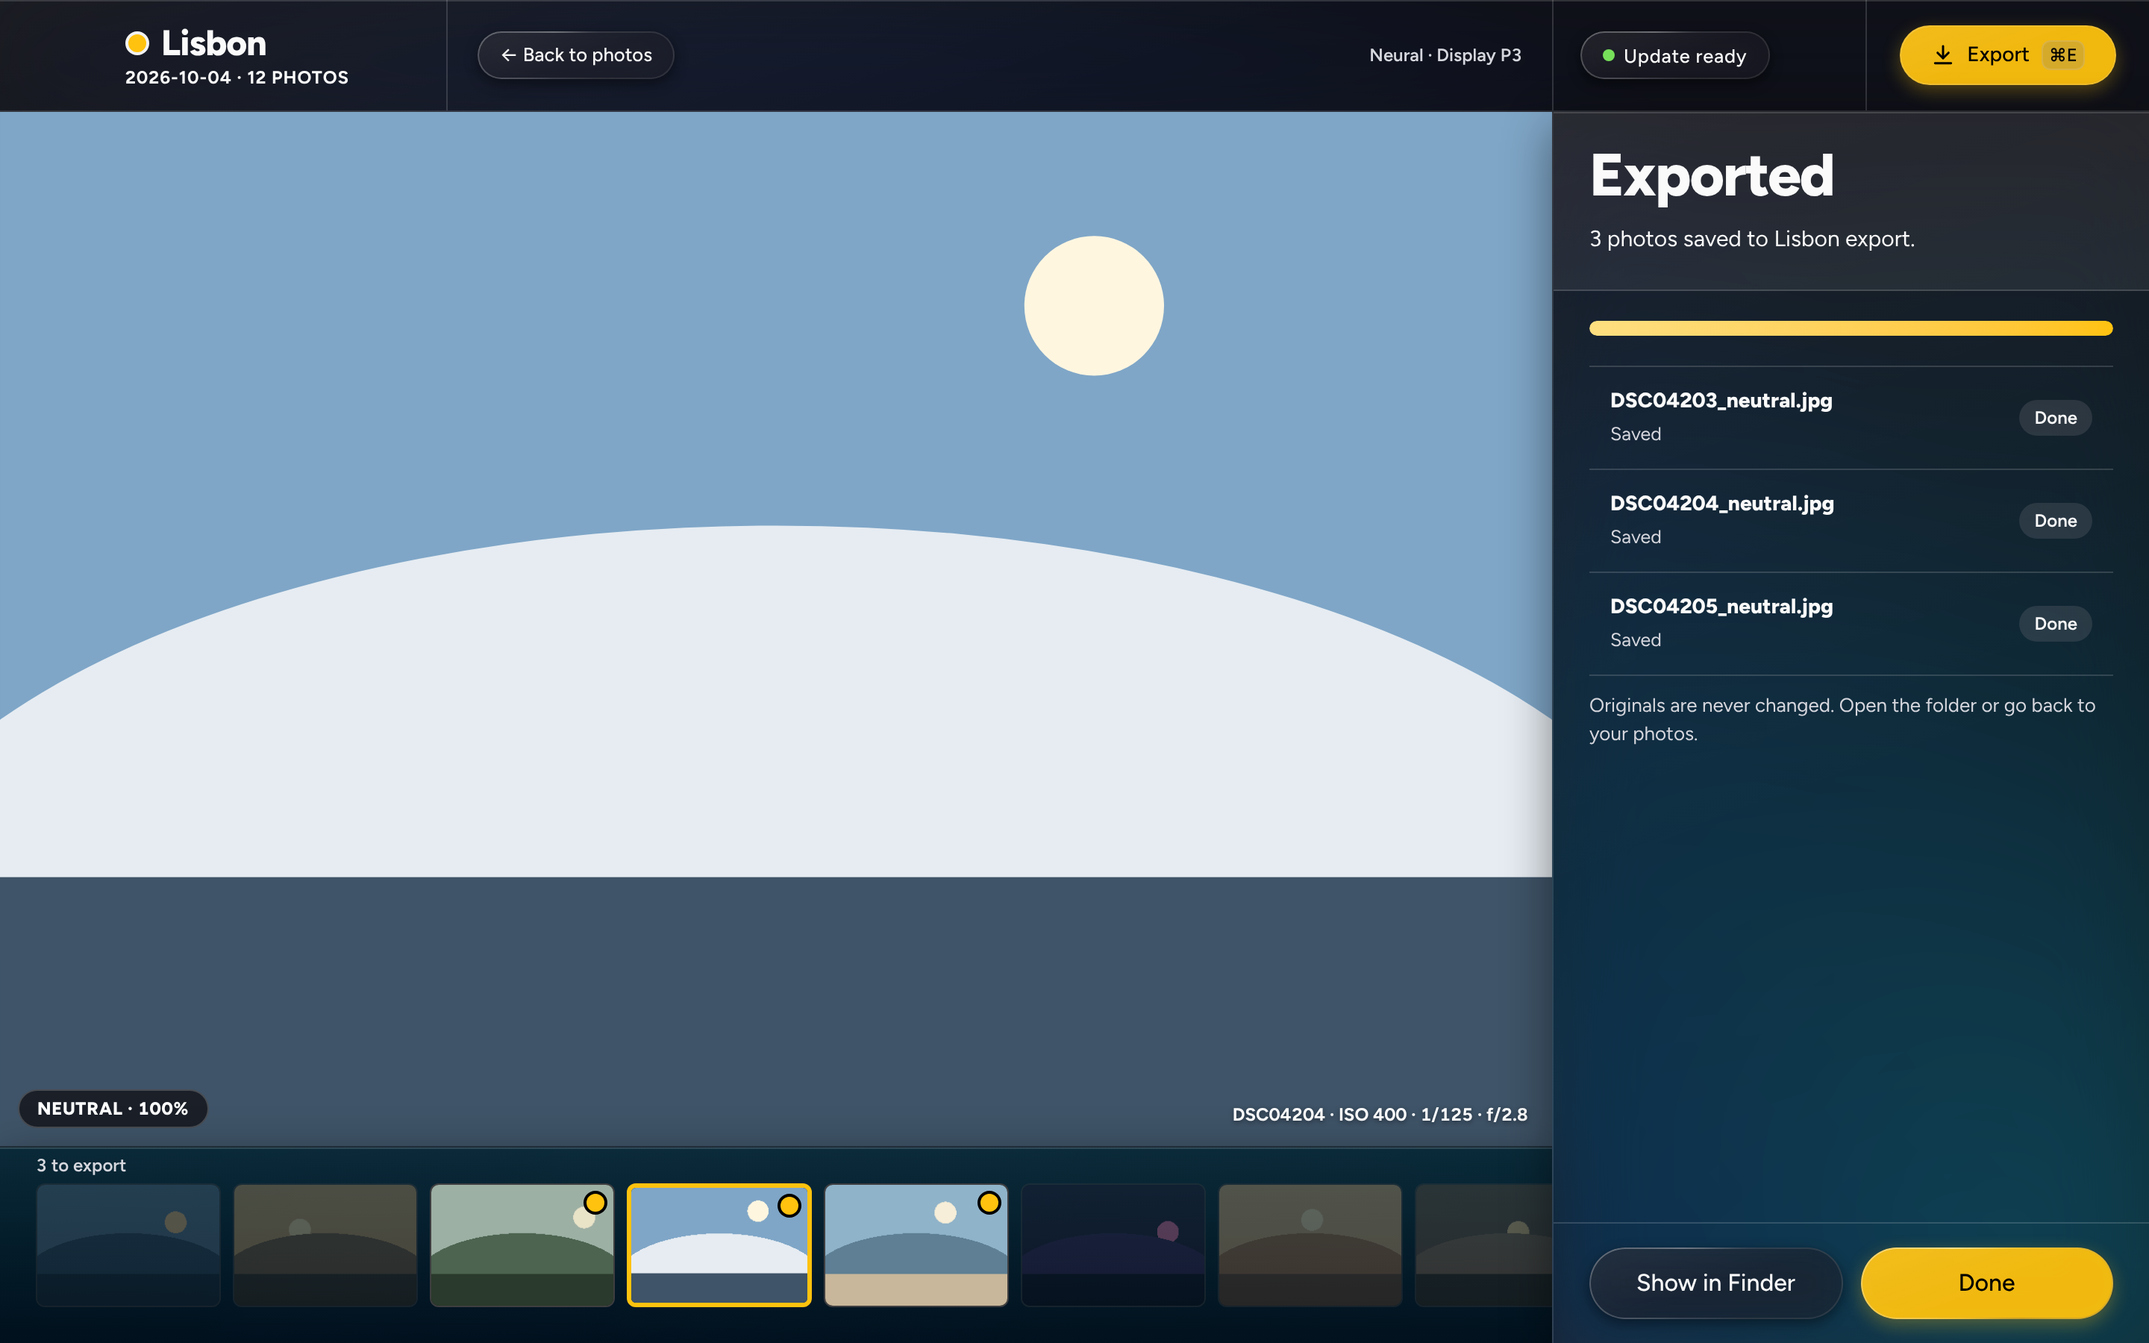
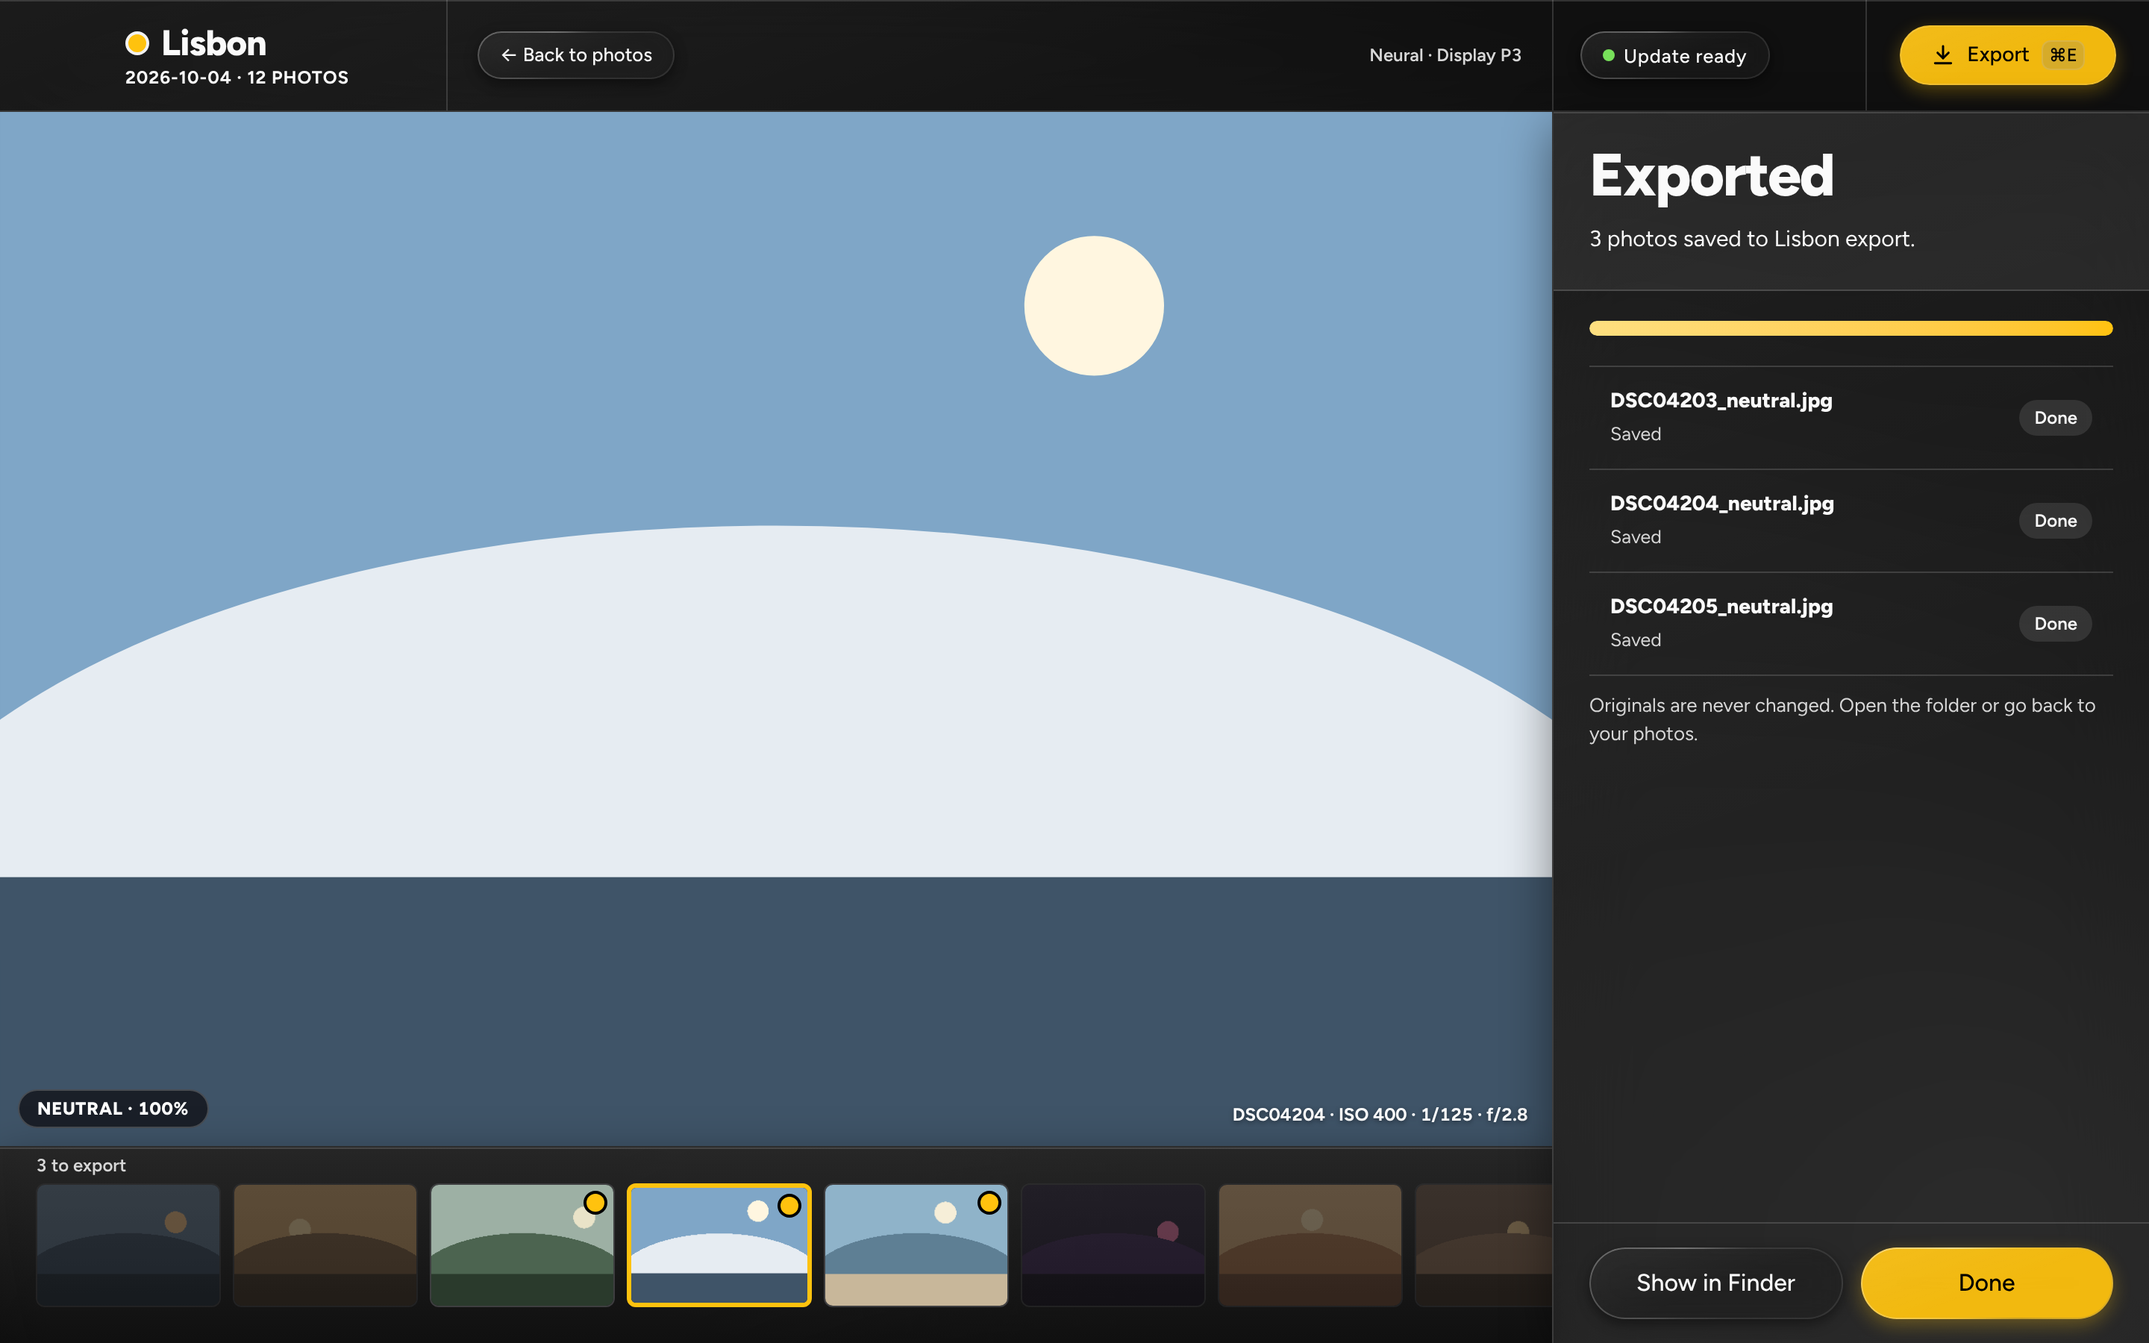
Neutral graphite interface: no hue in the ground, the frost or the labels
The owner's choice of 2026-10-17: glasscn's Graphite palette with yellow buttons ("It will be topical like the moon is grey"), adjusted after "it still a bit blue, no?" to neutral graphite. Graphite's blobs lean blue-violet (hues 236 to 300), its ground and glasscn's dark frost, fills and grey labels carry hue 285, and the frost's saturate(180%) made that visible on every pane (they read rgb(35, 32, 46)). Now every one of them is grey at the same lightness, and the panes read rgb(34, 34, 34).

- glass-c2.css: --aurora-base oklch(0.116 0 0), --aurora-1..3 at Graphite's lightness (0.326, 0.339, 0.315) with no chroma; --glass-tint, --glass-fill-tint and the three secondary label greys without hue; the filmstrip on a new neutral surface (--strip-neutral) in place of the blue one. Yellow buttons and the tab accents stay.
- glass-c2-pages.css: the four remaining fills and text colours with hue 262/285 are neutral.
- The 24 reference screenshots in design/screenshots-c2 are retaken (looked at: no blue or violet left).
- docs/11 (Ground, Material), docs/16 (the decision with the owner's words and the three variants shown), CHANGELOG (Unreleased, with the tab, knob and wheel-point fix already on main).

Checks: npm test (1486 passed), npm run build, npx playwright test (300 passed; the 30 page audits run again against this build, since e2e/helpers/states.ts opens port 1420).

Claude-Session: https://claude.ai/code/session_015yVsquBXWFc8zJt2CLktQS

Changed region(s): [[0.0, 0.3422, 1.0, 1.0]]

diff --git a/src/styles/glass-c2.css b/src/styles/glass-c2.css
@@ -23,12 +23,21 @@ html.dark {
   --chart-1: var(--brand);
   --chart-2: oklch(0.91 0.12 92);
 
-  /* The ground: a dark aurora in cool hues only (deep blue, teal, violet at low brightness). Nothing warm sits behind a glass pane, so no
-     pane turns olive or brown (round 7). */
-  --aurora-base: oklch(0.125 0.014 262);
-  --aurora-1: oklch(0.36 0.1 262);
-  --aurora-2: oklch(0.4 0.08 212);
-  --aurora-3: oklch(0.34 0.09 298);
+  /* The ground: neutral graphite, the owner's choice of 2026-10-17 ("like the moon is grey"). glasscn's Graphite palette (theme-graphite:
+     the ground oklch(0.116 0.006 285.4), blobs at 0.315 to 0.339) with every hue taken out: its blobs lean blue-violet, and the frost's
+     saturate(180%) carried that onto every pane. A grey surround also leaves the photo's colours to be judged against nothing tinted.
+     Nothing in the ground or the material has a hue; the colour is in the yellow buttons, the tab accents and the photos. */
+  --aurora-base: oklch(0.116 0 0);
+  --aurora-1: oklch(0.326 0 0);
+  --aurora-2: oklch(0.339 0 0);
+  --aurora-3: oklch(0.315 0 0);
+
+  /* glasscn's dark material puts hue 285 (a faint violet) in the frost, the fills and the grey labels: neutral here, at the same lightness. */
+  --glass-tint: oklch(0.24 0 0);
+  --glass-fill-tint: oklch(0.6 0 0);
+  --glass-label-secondary: oklch(0.88 0 0);
+  --glass-label-tertiary: oklch(0.62 0 0);
+  --glass-label-quaternary: oklch(0.45 0 0);
 
   /* The rules between the cells: a thin light rim. */
   --rim: color-mix(in oklch, var(--ink) 16%, transparent);
@@ -535,13 +544,15 @@ html:has(.ym-screen[data-screen="photos"]) #root {
   --strip-inset: var(--pad-panel);
   --strip-gap: 8px;
   /* Round 5: the strip has a surface of its own, so the warm part of the aurora no longer sits under warm thumbnails. Three tried, one
-     chosen: change --strip-surface to --strip-graphite, --strip-blue or --strip-tab and nothing else. --strip-alpha is how much of the
+     chosen: change --strip-surface to --strip-neutral, --strip-graphite, --strip-blue or --strip-tab and nothing else. --strip-alpha is how much of the
      colour covers the glass (100% is an opaque surface; less lets the aurora and the blur through). */
   --strip-alpha: 96%;
+  /* The neutral graphite ground (2026-10-17): the strip is the same grey as the panes, a little darker at the foot. */
+  --strip-neutral: linear-gradient(to bottom, color-mix(in oklch, oklch(0.27 0 0) var(--strip-alpha), transparent), color-mix(in oklch, oklch(0.17 0 0) var(--strip-alpha), transparent));
   --strip-graphite: linear-gradient(to bottom, color-mix(in oklch, oklch(0.3 0.008 255) var(--strip-alpha), transparent), color-mix(in oklch, oklch(0.2 0.008 255) var(--strip-alpha), transparent));
   --strip-blue: linear-gradient(to bottom, color-mix(in oklch, oklch(0.27 0.045 232) var(--strip-alpha), transparent), color-mix(in oklch, oklch(0.165 0.035 240) var(--strip-alpha), transparent));
   --strip-tab: linear-gradient(to bottom, color-mix(in oklab, color-mix(in oklab, var(--primary) 9%, oklch(0.23 0.004 255)) var(--strip-alpha), transparent), color-mix(in oklab, color-mix(in oklab, var(--primary) 3%, oklch(0.16 0.004 255)) var(--strip-alpha), transparent));
-  --strip-surface: var(--strip-blue);
+  --strip-surface: var(--strip-neutral);
   container-type: size;
   position: relative;
   display: flex;

diff --git a/src/styles/glass-c2-pages.css b/src/styles/glass-c2-pages.css
@@ -294,7 +294,7 @@ html:has(.ym-screen[data-screen="import-looks"]) #root {
 }
 .ym-step-rail__step[aria-current="step"] .ym-step-rail__mark {
   background: var(--glass-label);
-  color: oklch(0.2 0.01 262);
+  color: oklch(0.2 0 0);
 }
 .ym-step-rail__step[data-state="done"] .ym-step-rail__mark {
   background: color-mix(in oklch, var(--ink) 12%, transparent);
@@ -637,7 +637,7 @@ html:has(.ym-screen[data-screen="import-looks"]) #root {
   margin: -7px 0 0 -7px;
   border: 2px solid var(--brand);
   border-radius: 50%;
-  background: oklch(0.2 0.01 285);
+  background: oklch(0.2 0 0);
   box-shadow: 0 1px 4px rgb(0 0 0 / 0.5);
 }
 .ym-crop__thirds i {
@@ -691,7 +691,7 @@ html:has(.ym-screen[data-screen="import-looks"]) #root {
 }
 .ym-curve__point {
   rx: 50%;
-  fill: oklch(0.2 0.01 285);
+  fill: oklch(0.2 0 0);
   stroke: var(--primary);
   stroke-width: 2.5;
 }
@@ -719,7 +719,7 @@ html:has(.ym-screen[data-screen="import-looks"]) #root {
   padding: 12px 14px 12px 12px;
   border-radius: var(--glass-radius-surface);
   /* Near-opaque, so whatever is under the bar does not read through it. */
-  background-color: oklch(0.19 0.012 285 / 0.95);
+  background-color: oklch(0.19 0 0 / 0.95);
   background-image: linear-gradient(color-mix(in oklch, var(--destructive) 26%, transparent), color-mix(in oklch, var(--destructive) 26%, transparent));
   color: var(--glass-label);
   font-size: var(--fs-body);

diff --git a/docs/11-ui.md b/docs/11-ui.md
@@ -9,9 +9,9 @@ Style, since the owner's decision of 2026-10-16 (`docs/16`): dark glass. glasscn
 Decided on 2026-10-16 (the owner: "Great, merge C2 and V1 branch to main and build new version"; `docs/16`). It replaces the look of the screens and the controls, not their layout: the same cells in the same places with the same sizes and copy, every control a glasscn component.
 
 - **Dark only.** `index.html` sets `class="dark"`, `data-theme="dark"`, `color-scheme: dark` and paints the root `#0f0f10` inline, so nothing is white before the first style sheet loads. `--paper` of the dark theme in `tokens.css` is that colour. The window behind the page, the letterbox of the core's frames and the window's `backgroundColor` are the same colour (*The native viewport*, below). There is no light theme in the app; the light values of `tokens.css` are the pre-glass design, kept for history.
-- **Material.** Panes are glasscn's glass: a translucent dark tint, a thin light rim, a soft shadow, backdrop blur where a pane sits over the aurora. The header, the tool panel and the Export panel are one glass pane each; the cells inside them are separated by 1 px light rims (`--rim`), not by 3 px rules. The filmstrip has a near-opaque surface of its own (no blur) so that the aurora's colour never sits under the thumbnails.
+- **Material.** Panes are glasscn's glass: a translucent dark tint, a thin light rim, a soft shadow, backdrop blur where a pane sits over the aurora. The header, the tool panel and the Export panel are one glass pane each; the cells inside them are separated by 1 px light rims (`--rim`), not by 3 px rules. The filmstrip has a near-opaque surface of its own (no blur), the same neutral grey, a little darker at the foot (`--strip-neutral`).
 - **Colour.** *Yellow only as a button accent*: the accent is #FFC20E with black text on it (`--primary`), used by the primary buttons (Open photos, Next, Export), pressed toggles (Before, Crop, Pick white, AUTO) and the selected tab's underline. No large area carries yellow or a tab colour as a tint: the title blocks, the Start block, the wizard rail, the drop zone, tags and notices are neutral glass. Each tab keeps its own accent for what belongs to it (the slider range, a changed value's ring and text, the selected look tile), lightened for the dark ground with black text on it; the tab colours are in `src/styles/glass-c2.css`. A disabled primary button is neutral glass, not faded yellow. Red is for what failed.
-- **Ground.** A still aurora in cool hues only (deep blue, teal, violet at low brightness; `animate={false}`, no running animation under the glass). On the Photos screen the aurora is cut out of the photo cell (`.ym-aurora` is masked by the rectangle the screen reports as `--cell-x/y/w/h`), because with the native viewport the photo is a layer behind the page.
+- **Ground.** Neutral graphite, the owner's choice of 2026-10-17 (`docs/16`, "like the moon is grey"): a still aurora of three grey blobs on a near-black ground, glasscn's Graphite palette with every hue taken out (`animate={false}`, no running animation under the glass). The frost, the fills and the grey labels have no hue either (glasscn's dark material gives them a faint violet, hue 285, which its `saturate(180%)` frost made visible), so the panes are pure grey and the colour on screen is the photos', the yellow buttons' and the tab accents'. Until 0.1.8 the aurora was cool (deep blue, teal, violet). On the Photos screen the aurora is cut out of the photo cell (`.ym-aurora` is masked by the rectangle the screen reports as `--cell-x/y/w/h`), because with the native viewport the photo is a layer behind the page.
 - **Controls.** `Button` (glass for actions, prominent for the primary one, link for text actions), `Toggle` (Before, Crop, Pick white and the AUTO buttons, all `aria-pressed`), line `Tabs`, `SegmentedControl`, `Slider` with `Input`, `Switch`, `Select`, `SearchField`, `DropdownMenu` (Fit; the default look on Start), `Dialog`, `Tooltip`, `Badge`, `Progress`, `Item` (every row of the Automatic card, the queue, the wizard, Preferences and About), `Card` (the drop zone, the wizard tiles) and `Collapsible` (a look library's header). `src/components/` keeps the app's own props, roles and accessible names around them; **a control that glasscn has is never hand-written**, and `e2e/glass.spec.ts` audits all 30 page states for it. What stays ours has no glasscn counterpart: the colour wheels, the curve plot, the histogram, look tiles, filmstrip thumbnails, the crop frame, the pick-white layer, the photo cell and the ruled bands of the tool panel (cards, title block, field rows).
 - **Tooltips.** A `title` on a `Button` is a glass tooltip (it also shows on a locked button, so that it can say why it is locked) and the button's accessible description (a hidden span and `aria-describedby`). A test reads it with `toHaveAccessibleDescription`, not as a `title` attribute. Every `Button` has the same tree whether or not it has a title (a span for the tooltip around the `<button>`), so a button whose title appears or goes (the wizard's Next, the Export panel's estimate, Import in the LUT dialog) keeps its element, and the keyboard focus stays on it. The tooltip opens on hover only, never on keyboard focus: an open tooltip is Radix's topmost layer and takes the first Esc, so a dialog or a mode (Pick white, Crop) would need a second press. For a keyboard user the reason is the description, and the wizard's footer says it in a note. The same wrapper is on the Update cell (a locked glass button takes no pointer events, so a native `title` on it would never show). A locked `Toggle` (Crop and Pick white while a photo is developing, Pick white while cropping) is muted and inert like a locked `Button`.
 - **The filmstrip.** The strip runs the full width of its row; there is no counter cell. One line of muted text in its top inset says where you are, "4 of 12 · 3 picked" ("3 to export" in the Export panel), and describes the strip for assistive technology (`aria-describedby`). Each thumbnail is as tall as the row less the tool panel's inset (24 px) above and below, 3:2, all one size, so they are larger than before (about 124 × 83 px at 1440 × 900, where the pre-glass strip had 60 × 40 px and 90 × 60 for the current one); the current one has a 3 px accent ring.

diff --git a/docs/16-risks-and-decisions.md b/docs/16-risks-and-decisions.md
@@ -94,3 +94,4 @@ Add entries as `YYYY-MM-DD · decision · numbers · who`.
 - 2026-10-16 · Before view, four answers to the open points (`docs/STATUS.md` question 29): "Corners: turn off the lens-vignetting correction in Before? - yes"; "Detail settings: leave Before ignoring your Detail settings? - yes"; "A1 II: use the A1's colours? - yes"; "A3000: use the generic E-mount colours? - yes". Built (0.1.5): the Before view's raw front has no R3, on the CPU and on the device, with its own plan, chain, tiles and cache keys (exact; the other way, dividing the gain back out in the colour path, was not taken because it cannot undo what R5, the denoise and R9 did with the gain in; the measured cost is in `docs/02`, *The Before view*); the Before view still reads Detail at Auto, now by decision and not only by choice; the A1 II (ILCE-1M2, ID 400) has the A1's matrix and the A3000 (ILCE-3000, ID 302) the generic E-mount matrix, each with a note in `data/cameras/color-matrices.json`. The final picture, thumbnails, look tiles, exports and DNG are byte-identical (`golden check`: 61 identical). · — · Mykyta
 - 2026-10-16 · The interface becomes the dark glass one (C2): "Great, merge C2 and V1 branch to main and build new version". C2 is the interface of the branch `claude/glasscn-ui` (round 7, f81b658), built over seven rounds of screenshots against the earlier design: glasscn components (MIT, a shadcn registry) on Tailwind 4 and Radix in the layout of the earlier design, every control a glasscn component, yellow only as a button accent, neutral glass panels over a still, cool aurora, the strip caption "4 of 12 · 3 picked" in place of the counter cell and larger thumbnails. The earlier rule of `AGENTS.md`, "no UI library; components are hand-written to the tokens", is replaced by this one (the Frontend line of `AGENTS.md`), and the visual reference is `design/screenshots-c2/`; `design/mockups/` and `design/screenshots/` are the pre-glass design, kept for history. Built (0.1.6, merged with the 0.1.4 native-viewport fixes and the 0.1.5 Before view): the dark paper `#0f0f10` is the ground of the page, the window (`backgroundColor` in `tauri.conf.json`, `PAPER_SRGB` in `native.rs`) and the letterbox of the core's viewport frames, thumbnails and look tiles (`PAPER_RGB8`, set by the app only, so the command line and every export are byte-identical); the 78 unit tests that pinned the old markup were rewritten for the new components (Radix slider, menu, select, dialog; tooltips as descriptions) and the pre-glass screenshot comparisons were replaced by `design/screenshots-c2/`. Licences are in `docs/14`. · — · Mykyta
 - 2026-10-17 · Minimum macOS 14 Sonoma (was 12), the owner's answer to `docs/STATUS.md` question 30: "Raise to Mac 14". The dark glass interface's CSS needs WebKit 16.4, which macOS 14 ships (Safari 17) and 12 and 13 have only after a Safari update. `minimumSystemVersion` 14.0, the cask `>= :sonoma`, the build target Safari 17; the CSS fallbacks for older Safari are removed. A Mac on 12 or 13 running 0.1.6 still installs the next release by itself and macOS then refuses to open it; it reinstalls 0.1.6 from GitHub Releases. · — · Mykyta
+- 2026-10-17 · The ground becomes neutral graphite, released as 0.1.8. The owner asked for glasscn's Graphite with yellow buttons ("It will be topical like the moon is grey"), found the palette as it ships still a bit blue ("Adjust graphite, it still a bit blue, no?"), and chose "Neutral graphite" (Graphite with every hue taken out of the ground, the aurora, the frost, the fills, the grey labels and the filmstrip) over "Moon grey" (a touch warm) and over Graphite as it ships, to be released now. Yellow buttons and the tab accents stay (`docs/11`).

diff --git a/CHANGELOG.md b/CHANGELOG.md
@@ -9,7 +9,10 @@ moves the entries below from Unreleased into a dated section for that version.
 
 ## [Unreleased]
 
-Nothing yet.
+### Changed
+
+- The interface is now a neutral graphite grey instead of a cool blue. Nothing behind the panes or in them has a hue any more, so the colour on screen is your photo's, the yellow buttons' and the tabs'.
+- The tool tabs sit in the middle of their row, sliders have a small round knob that leaves more room to drag, and the point on the colour wheels is smaller.
 
 ## [0.1.7] - 2026-10-17
 
